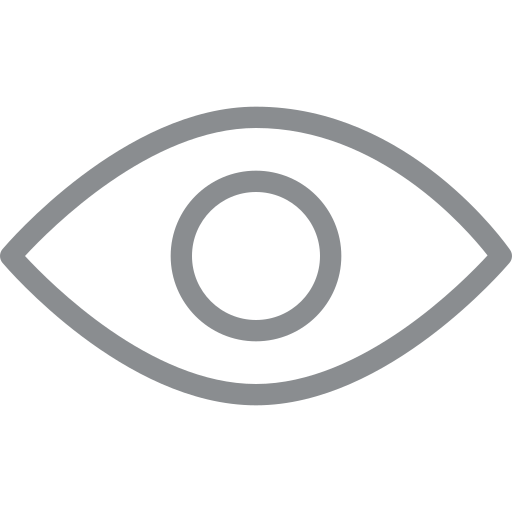
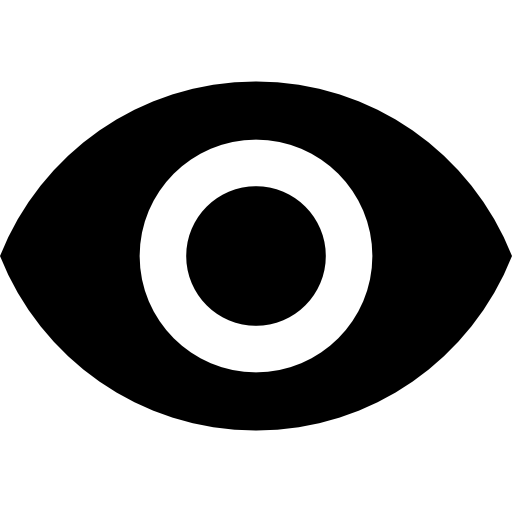
Small Changes, register screen half layed out

diff --git a/screens/Register.js b/screens/Register.js
@@ -1,4 +1,4 @@
-import React from 'react';
+import React, { useState } from 'react';
 import {
   Text,
   View,
@@ -12,11 +12,19 @@ import Button from '../components/Buttons/Button';
 import gc from '../general/globalColors';
 import { signUp } from '../assets/images/images';
 import OurTextInput from '../components/Other/TextInput';
+import DateTimePicker from '@react-native-community/datetimepicker';
 
 const width = Dimensions.get('window').width;
 const height = Dimensions.get('window').height;
 
 const Register = ({ navigation }) => {
+  const [dateOfBirth, setDateOfBirth] = useState(new Date());
+  const [showDatePicker, setShowDatePicker] = useState(true);
+
+  const onChooseDateHandle = (event, dob) => {
+    setDateOfBirth(dob);
+  };
+
   return (
     <>
       <ScrollView style={styles.container}>
@@ -32,12 +40,33 @@ const Register = ({ navigation }) => {
           <OurTextInput text='Surname' wProportion={0.8} hProportion={0.12} />
           <OurTextInput text='Email' wProportion={0.8} hProportion={0.12} />
           <OurTextInput
-            text='DOB ddmmyy'
+            text='NHS Number'
             wProportion={0.8}
             hProportion={0.12}
           />
-          <OurTextInput text='Surname' wProportion={0.8} hProportion={0.12} />
+          <OurTextInput
+            text='Password'
+            secure={true}
+            wProportion={0.8}
+            hProportion={0.12}
+          />
+          <OurTextInput
+            text='Confirm Password'
+            secure={true}
+            wProportion={0.8}
+            hProportion={0.12}
+          />
         </View>
+        {/* <View>
+          {showDatePicker && (
+            <DateTimePicker
+              value={new Date()}
+              mode={'date'}
+              display={'default'}
+              onChange={onChooseDateHandle}
+            />
+          )}
+        </View> */}
       </ScrollView>
     </>
   );
@@ -49,9 +78,7 @@ const styles = StyleSheet.create({
     backgroundColor: gc.colors.white
   },
   graphicContainer: {
-    alignSelf: 'flex-start',
-    top: 0.01 * height,
-    left: 0.01 * width
+    alignSelf: 'center'
   },
   formContainer: { top: 40, justifyContent: 'center', alignItems: 'center' }
 });

diff --git a/components/Other/TextInput.js b/components/Other/TextInput.js
@@ -3,14 +3,15 @@ import { Dimensions, TouchableOpacity, View } from 'react-native';
 import { TextInput } from 'react-native-paper';
 import gc from '../../general/globalColors';
 import RoundButton from '../Buttons/roundButtons';
-import { openEye } from '../../assets/images/images';
+import { openEye, closedEye } from '../../assets/images/images';
 
 const width = Dimensions.get('window').width;
 const height = Dimensions.get('window').width;
 
 const OurTextInput = (props) => {
-  const [isFocused, setIsFocused] = useState(false);
   const { text, hProportion, wProportion, secure } = props;
+
+  const [isFocused, setIsFocused] = useState(false);
   const [showPass, setShowPass] = useState(secure);
 
   return (
@@ -23,7 +24,7 @@ const OurTextInput = (props) => {
       right={
         secure ? (
           <TextInput.Icon
-            name={openEye}
+            name={showPass ? closedEye : openEye}
             onPress={() => setShowPass(!showPass)}
             style={{ top: '20%' }}
           />

diff --git a/assets/images/images.js b/assets/images/images.js
@@ -1,4 +1,5 @@
 export const backArrow = require('./backArrow.png');
 export const openEye = require('./openEye.png');
+export const closedEye = require('./closedEye.png');
 export const loginGraphic = require('./loginGraphic.png');
 export const signUp = require('./signUp.png');
